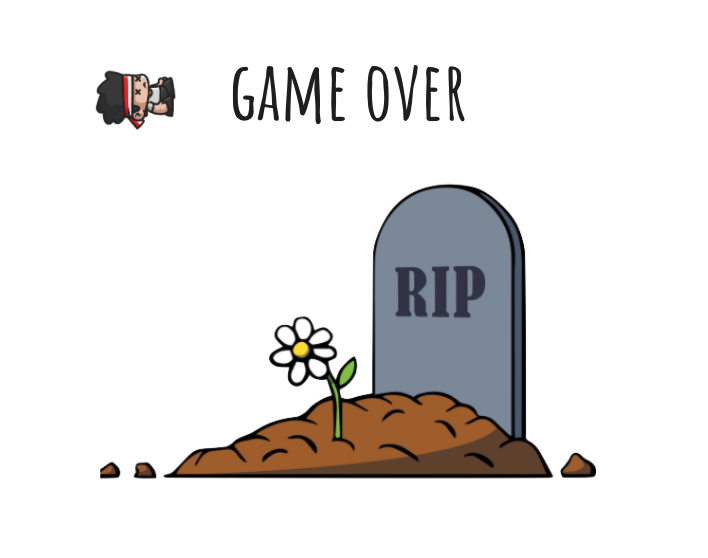
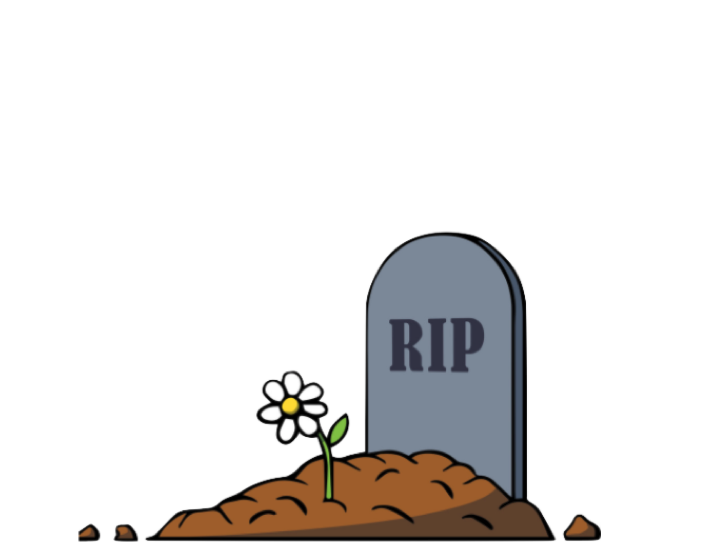
update

Changed region(s): [[0.0932, 0.3047, 0.8701, 0.9749], [0.3107, 0.1219, 0.6525, 0.2133], [0.1243, 0.1219, 0.2486, 0.2437]]

diff --git a/script.js b/script.js
@@ -2,6 +2,15 @@
 const canvas = document.getElementById("canvas");
 const ctx = canvas.getContext("2d");
 
+//Seleciona game-intro no html
+const gameIntro = document.querySelector("#game-intro");
+
+//Seleciona game-board no html
+const gameBoard = document.querySelector("#game-board");
+
+//Seleciona tela game-over no html
+const gameOver = document.getElementById("game-over");
+
 /////////CARREGA IMAGENS DOS COMPONENTES///////////
 
 //Background image
@@ -11,6 +20,10 @@ background.src = "images/background.png";
 //gameOver image
 const gameoverPicture = new Image();
 gameoverPicture.src = "images/game-over.png";
+
+//restart button
+const restartBtn = new Image();
+restartBtn.src = "images/restart.png";
 
 //Hero dieing images
 const heroDieingImages = [];
@@ -344,13 +357,11 @@ class Game {
 
   //Encerra a animação e desenha a tela de game-over
   gameOver = () => {
-    cancelAnimationFrame(this.animationId);
-    ctx.clearRect(0, 0, canvas.width, canvas.height);
-    ctx.drawImage(this.gameoverPicture, 0, 0, canvas.width, canvas.height);
-    ctx.font = "15px Verdana";
-    ctx.fillStyle = "black";
-    ctx.fillText(`Final Score: ${this.score}`, 85, 170);
-    // ctx.drawImage(zombieDieingImages[3], 160, 0, 80, 80);
+    //Remove o canvas
+    document.body.removeChild(gameBoard);
+    //Adiciona tela de game-over
+    document.body.appendChild(gameOver);
+    document.getElementById("score").innerText = this.score;
   };
 
   //Verifica se o player foi morto e chama método gameOver
@@ -370,6 +381,7 @@ class Game {
     hero.dx = 0;
     screamSound.play();
     this.heroDieingAnimation(frames, hero);
+    cancelAnimationFrame(this.animationId);
   };
 
   //Animação do herói morrendo
@@ -377,6 +389,9 @@ class Game {
     setTimeout(() => {
       frames += 1;
       hero.pictureFrame = frames;
+      this.clear();
+      ctx.drawImage(background, 0, 0, canvas.width, canvas.height);
+      this.updateComponents();
       if (frames === hero.dieingImagesArr.length - 1) {
         this.gameOver();
         return;
@@ -437,16 +452,16 @@ class Game {
 //Faz as preparações necessárias e começa o jogo
 startGame = () => {
   // Remove canvas da tela introdutória
-  const gameBoard = document.querySelector("#game-board");
-  document.querySelector("body").removeChild(gameBoard);
+  document.body.removeChild(gameBoard);
+  //Remove game over da tela introdutória
+  document.body.removeChild(gameOver);
 
   // Adiciona eventListener à tela introdutória para o início do jogo
-  const gameIntro = document.querySelector("#game-intro");
   gameIntro.addEventListener("click", () => {
     //Remove tela introdutória
-    document.querySelector("body").removeChild(gameIntro);
+    document.body.removeChild(gameIntro);
     //Reintroduz o canvas
-    document.querySelector("body").appendChild(gameBoard);
+    document.body.appendChild(gameBoard);
     const bangSoundIntro = new Audio();
     bangSoundIntro.src = "sounds/bang.wav";
     bangSoundIntro.volume = 0.1;
@@ -482,7 +497,6 @@ window.onload = () => {
 };
 
 //Adiciona eventListener na tela inicial
-let gameIntro = document.querySelector("#game-intro div");
 gameIntro.addEventListener("mouseover", () => {
   clickSound.play();
 });

diff --git a/style.css b/style.css
@@ -18,8 +18,22 @@ h1 {
   margin-top: 10rem;
 }
 
+h3 {
+  font-weight: 900;
+}
+
+h1:hover {
+  font-size: 4rem;
+  cursor: pointer;
+}
+
 h2 {
   font-weight: 900;
+}
+
+h2:hover {
+  font-size: 1.8rem;
+  cursor: pointer;
 }
 
 #game-intro {
@@ -36,12 +50,26 @@ h2 {
   background-color: white;
 }
 
-h1:hover {
-  font-size: 4rem;
-  cursor: pointer;
+#game-over {
+  display: flex;
+  flex-direction: column;
+  align-items: center;
+  width: 700px;
+  height: 600px;
+  margin: 0 auto;
+  background-image: url("images/game-over.png");
+  background-position: center;
+  background-repeat: no-repeat;
+  background-size: cover;
+  background-color: white;
 }
 
-h2:hover {
-  font-size: 1.8rem;
+#game-over h1 {
+  font-size: 3.5rem;
+  margin-top: 5rem;
+}
+
+#game-over h1:hover {
+  font-size: 4rem;
   cursor: pointer;
 }

diff --git a/index.html b/index.html
@@ -28,6 +28,15 @@
         ;
       ></canvas>
     </div>
+    <div id="game-over">
+      <div>
+        <h1>game over</h1>
+        <h2>click to play again</h2>
+      </div>
+      <div>
+        <h3>Final score: <span id="score">0</span></h3>
+      </div>
+    </div>
     <script src="script.js" text="text/javascript"></script>
   </body>
 </html>
